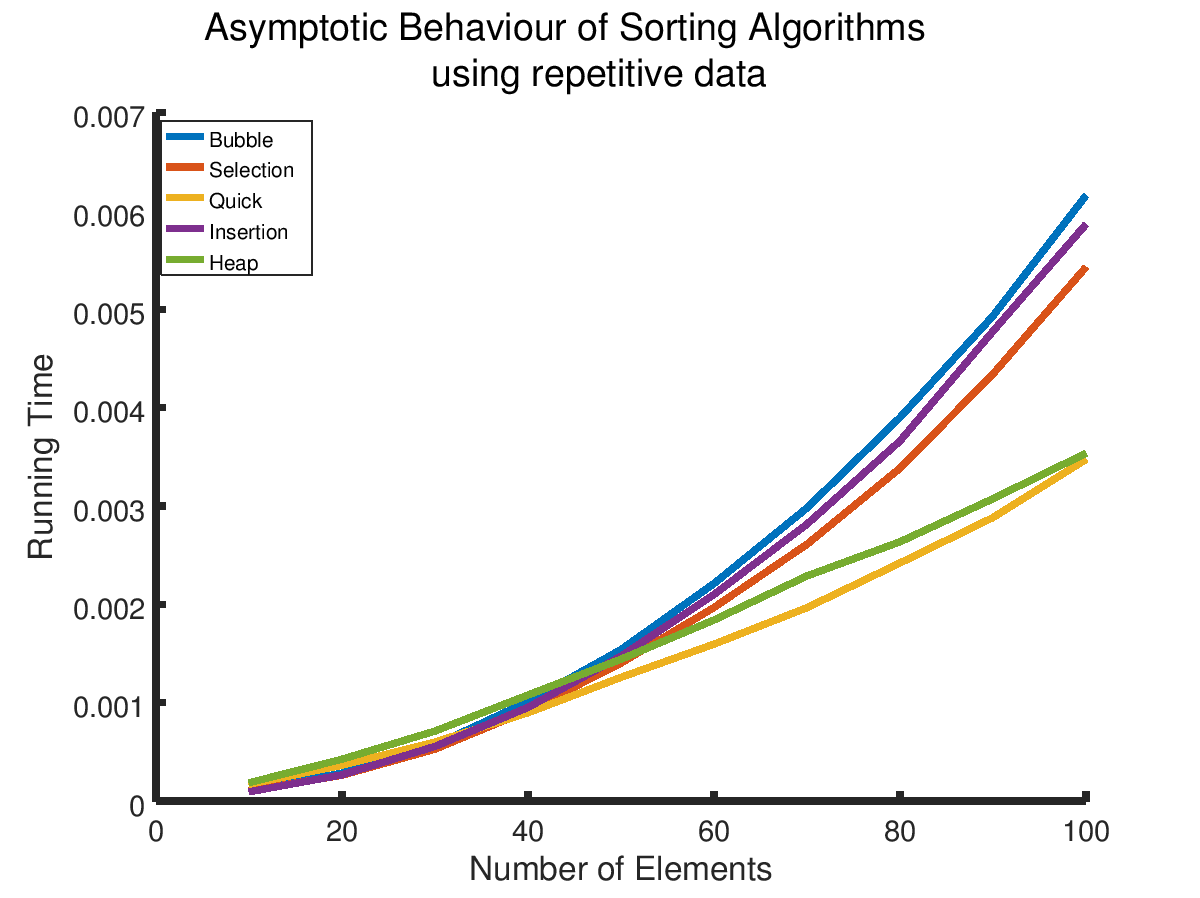
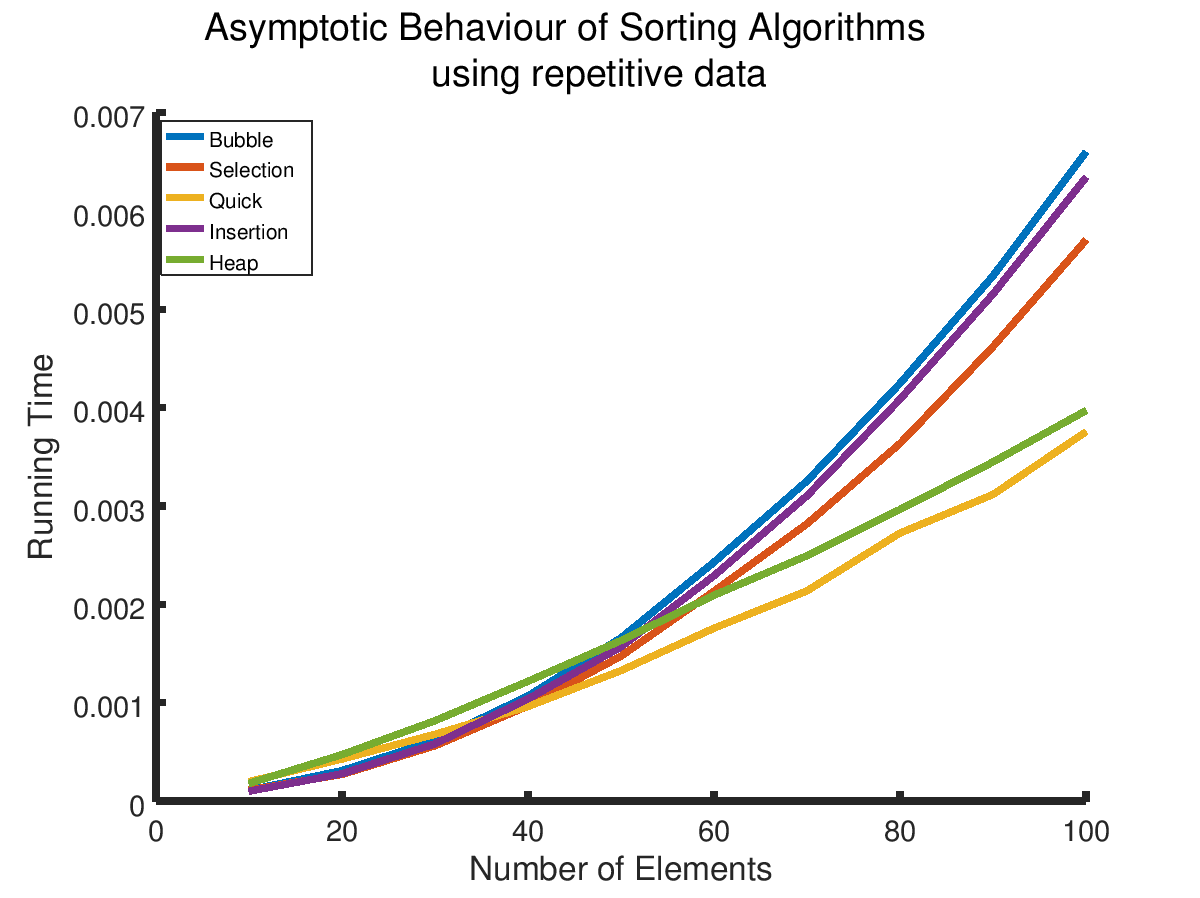
All running time graphs generated

Changed region(s): [[0.2158, 0.1559, 0.925, 0.8731]]

diff --git a/Assignment 1/Question 3/main.m b/Assignment 1/Question 3/main.m
@@ -6,10 +6,10 @@ ins = zeros(1,10);
 qui = zeros(1,10);
 for j = 1:100
   for i = 1:10
-    %a = floor(10*i*rand(1,10*i));
-    a = randi(i*4,1,i*10);
+    a = floor(10*i*rand(1,10*i));
+    %a = randi(i*4,1,i*10);
     %a = reverseSortedGen(a);
-    %a = almostSortedInput(a);
+    a = almostSortedInput(a);
     num(i) = i * 10;
     hea(i) = hea(i) + heapSort(a) / 1000;
     bub(i) = bub(i) + bubbleSort(a) / 1000;
@@ -22,7 +22,7 @@ for j = 1:100
 hold on;
 h=figure(1);
 %grid on;
-title("Asymptotic Behaviour of Sorting Algorithms \n using repetitive data","FontSize",18,"fontweight","normal");
+title("Asymptotic Behaviour of Sorting Algorithms \n using almost sorted data","FontSize",18,"fontweight","normal");
 plot(num,bub,"linewidth",3);
 plot(num,sel,"linewidth",3);
 plot(num,qui,"linewidth",3);
@@ -36,4 +36,4 @@ set(h,"linewidth",3);
 set(h,"fontsize",14);
 h=figure(1);
 hold off;
-print -dpng -color "-S600,600" repetitive.png
+print -dpng -color "-S600,600" almostSorted.png
